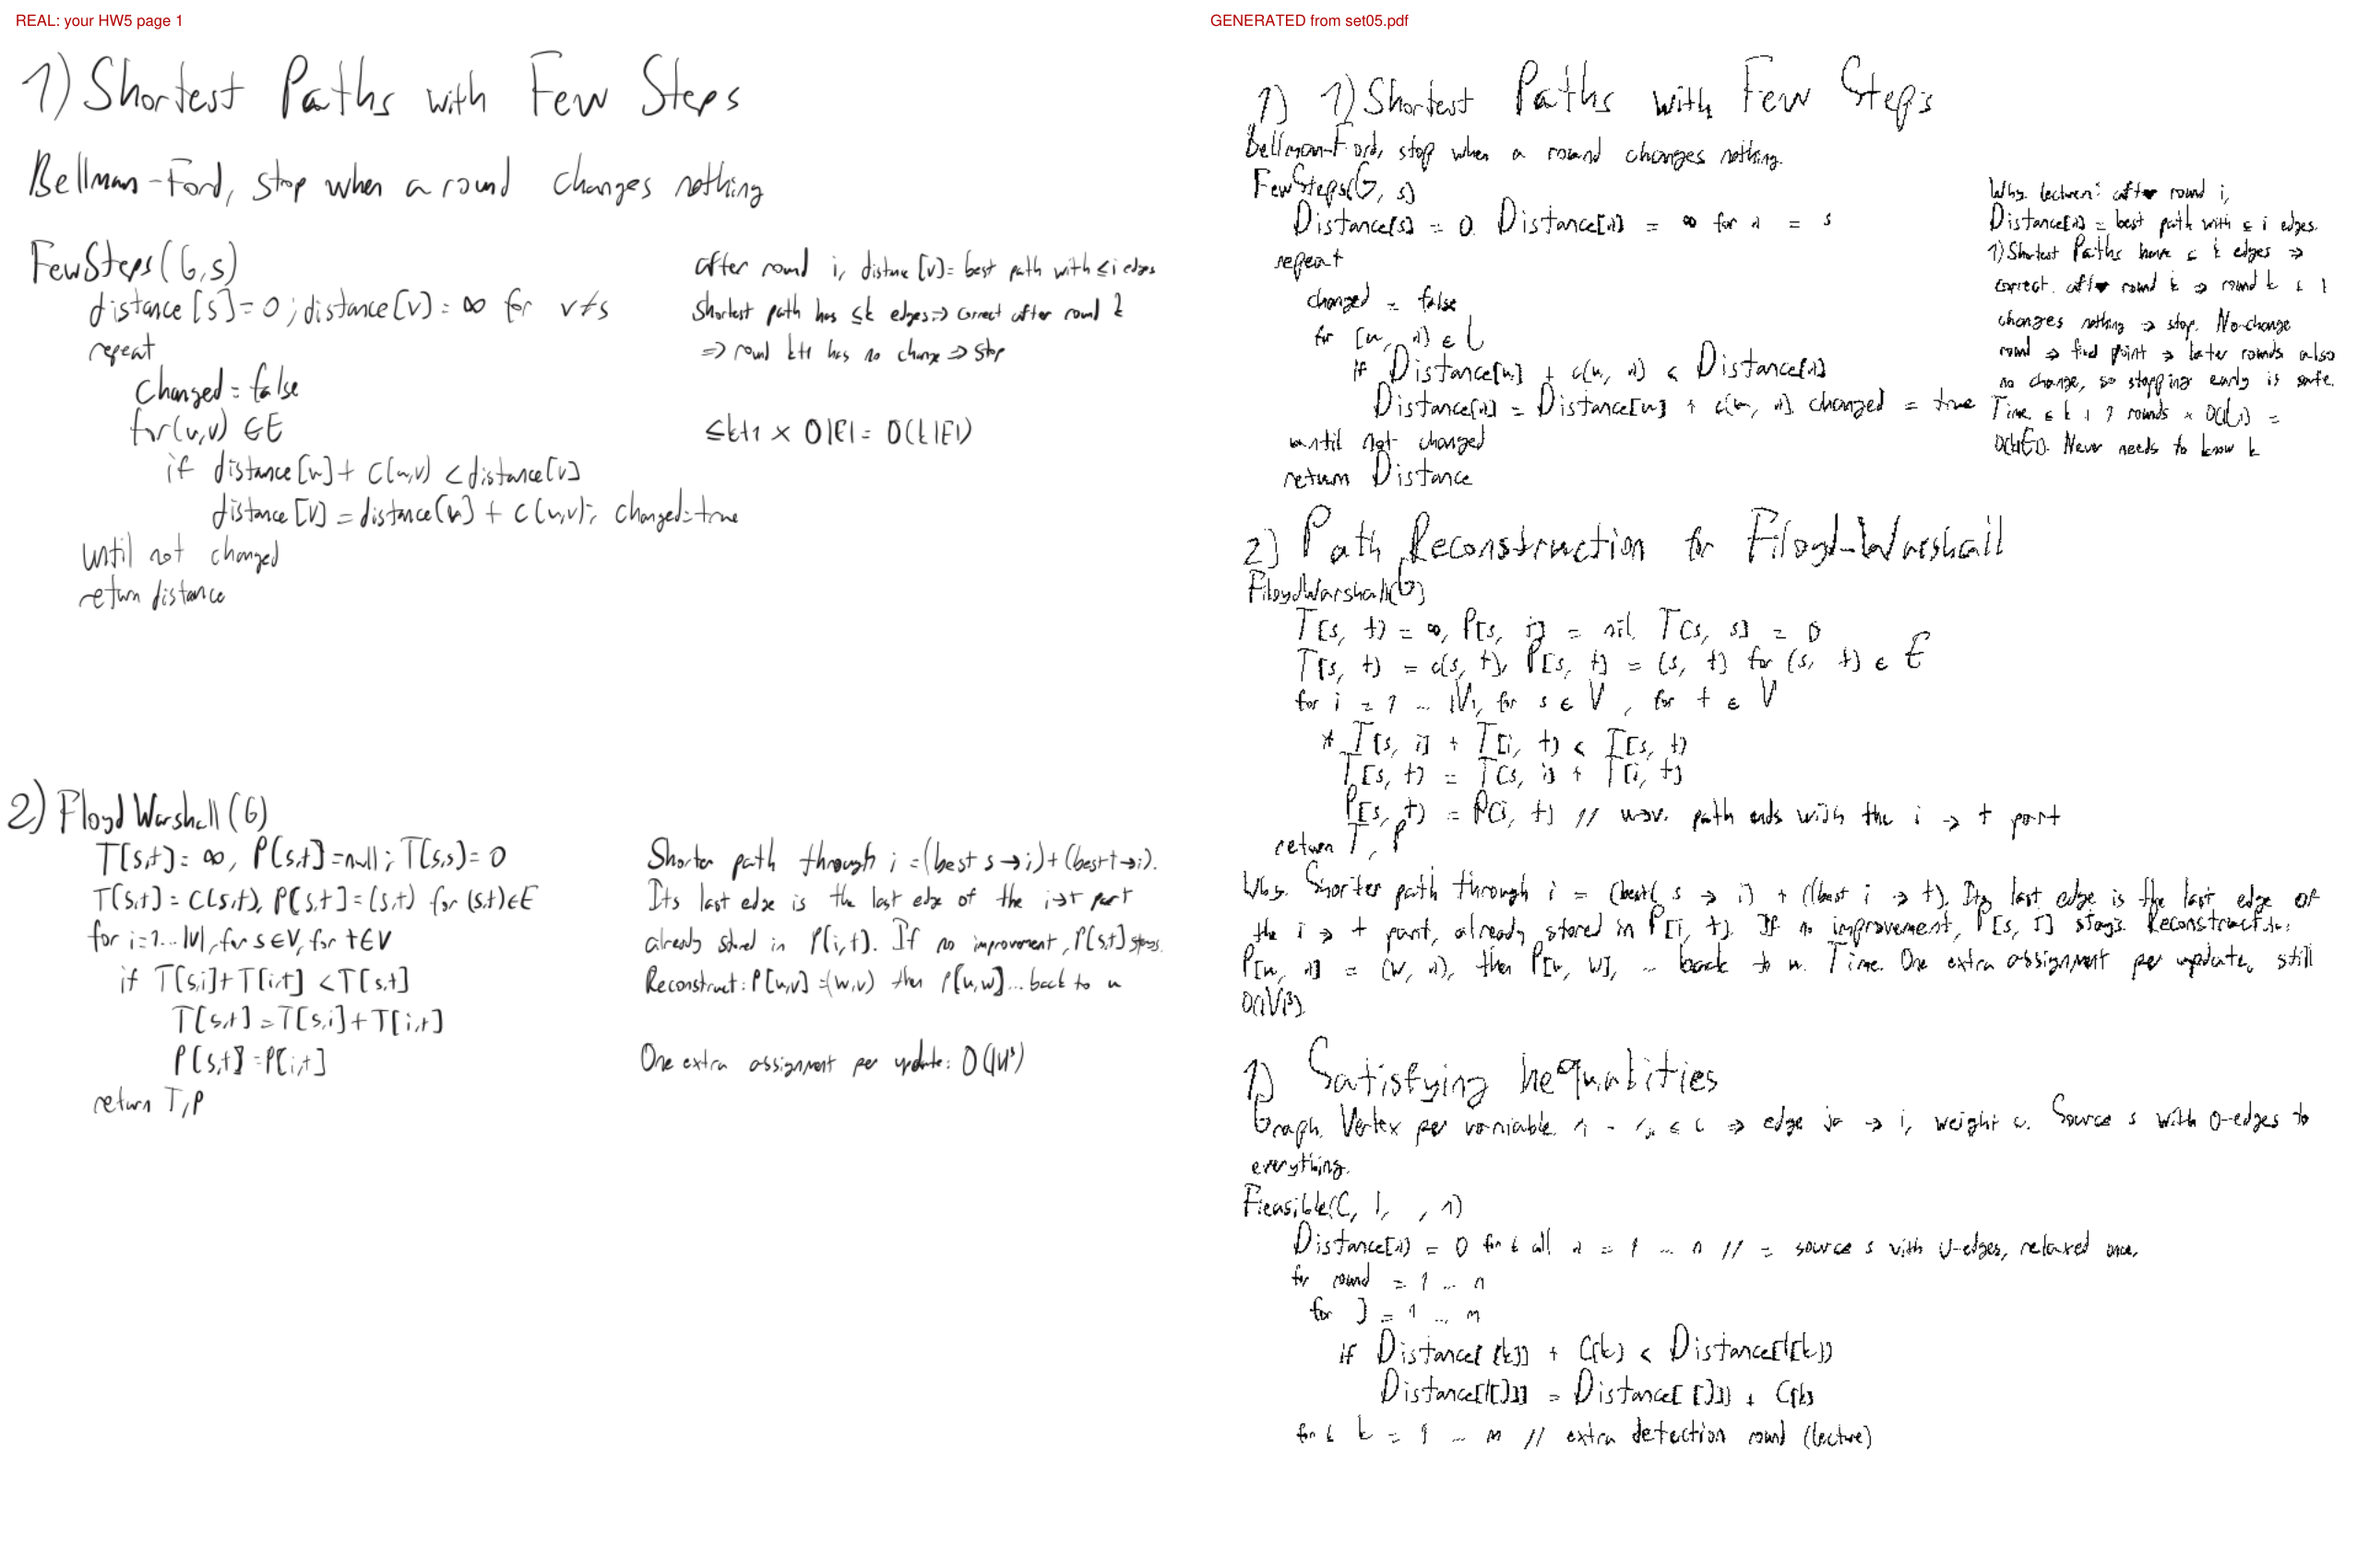
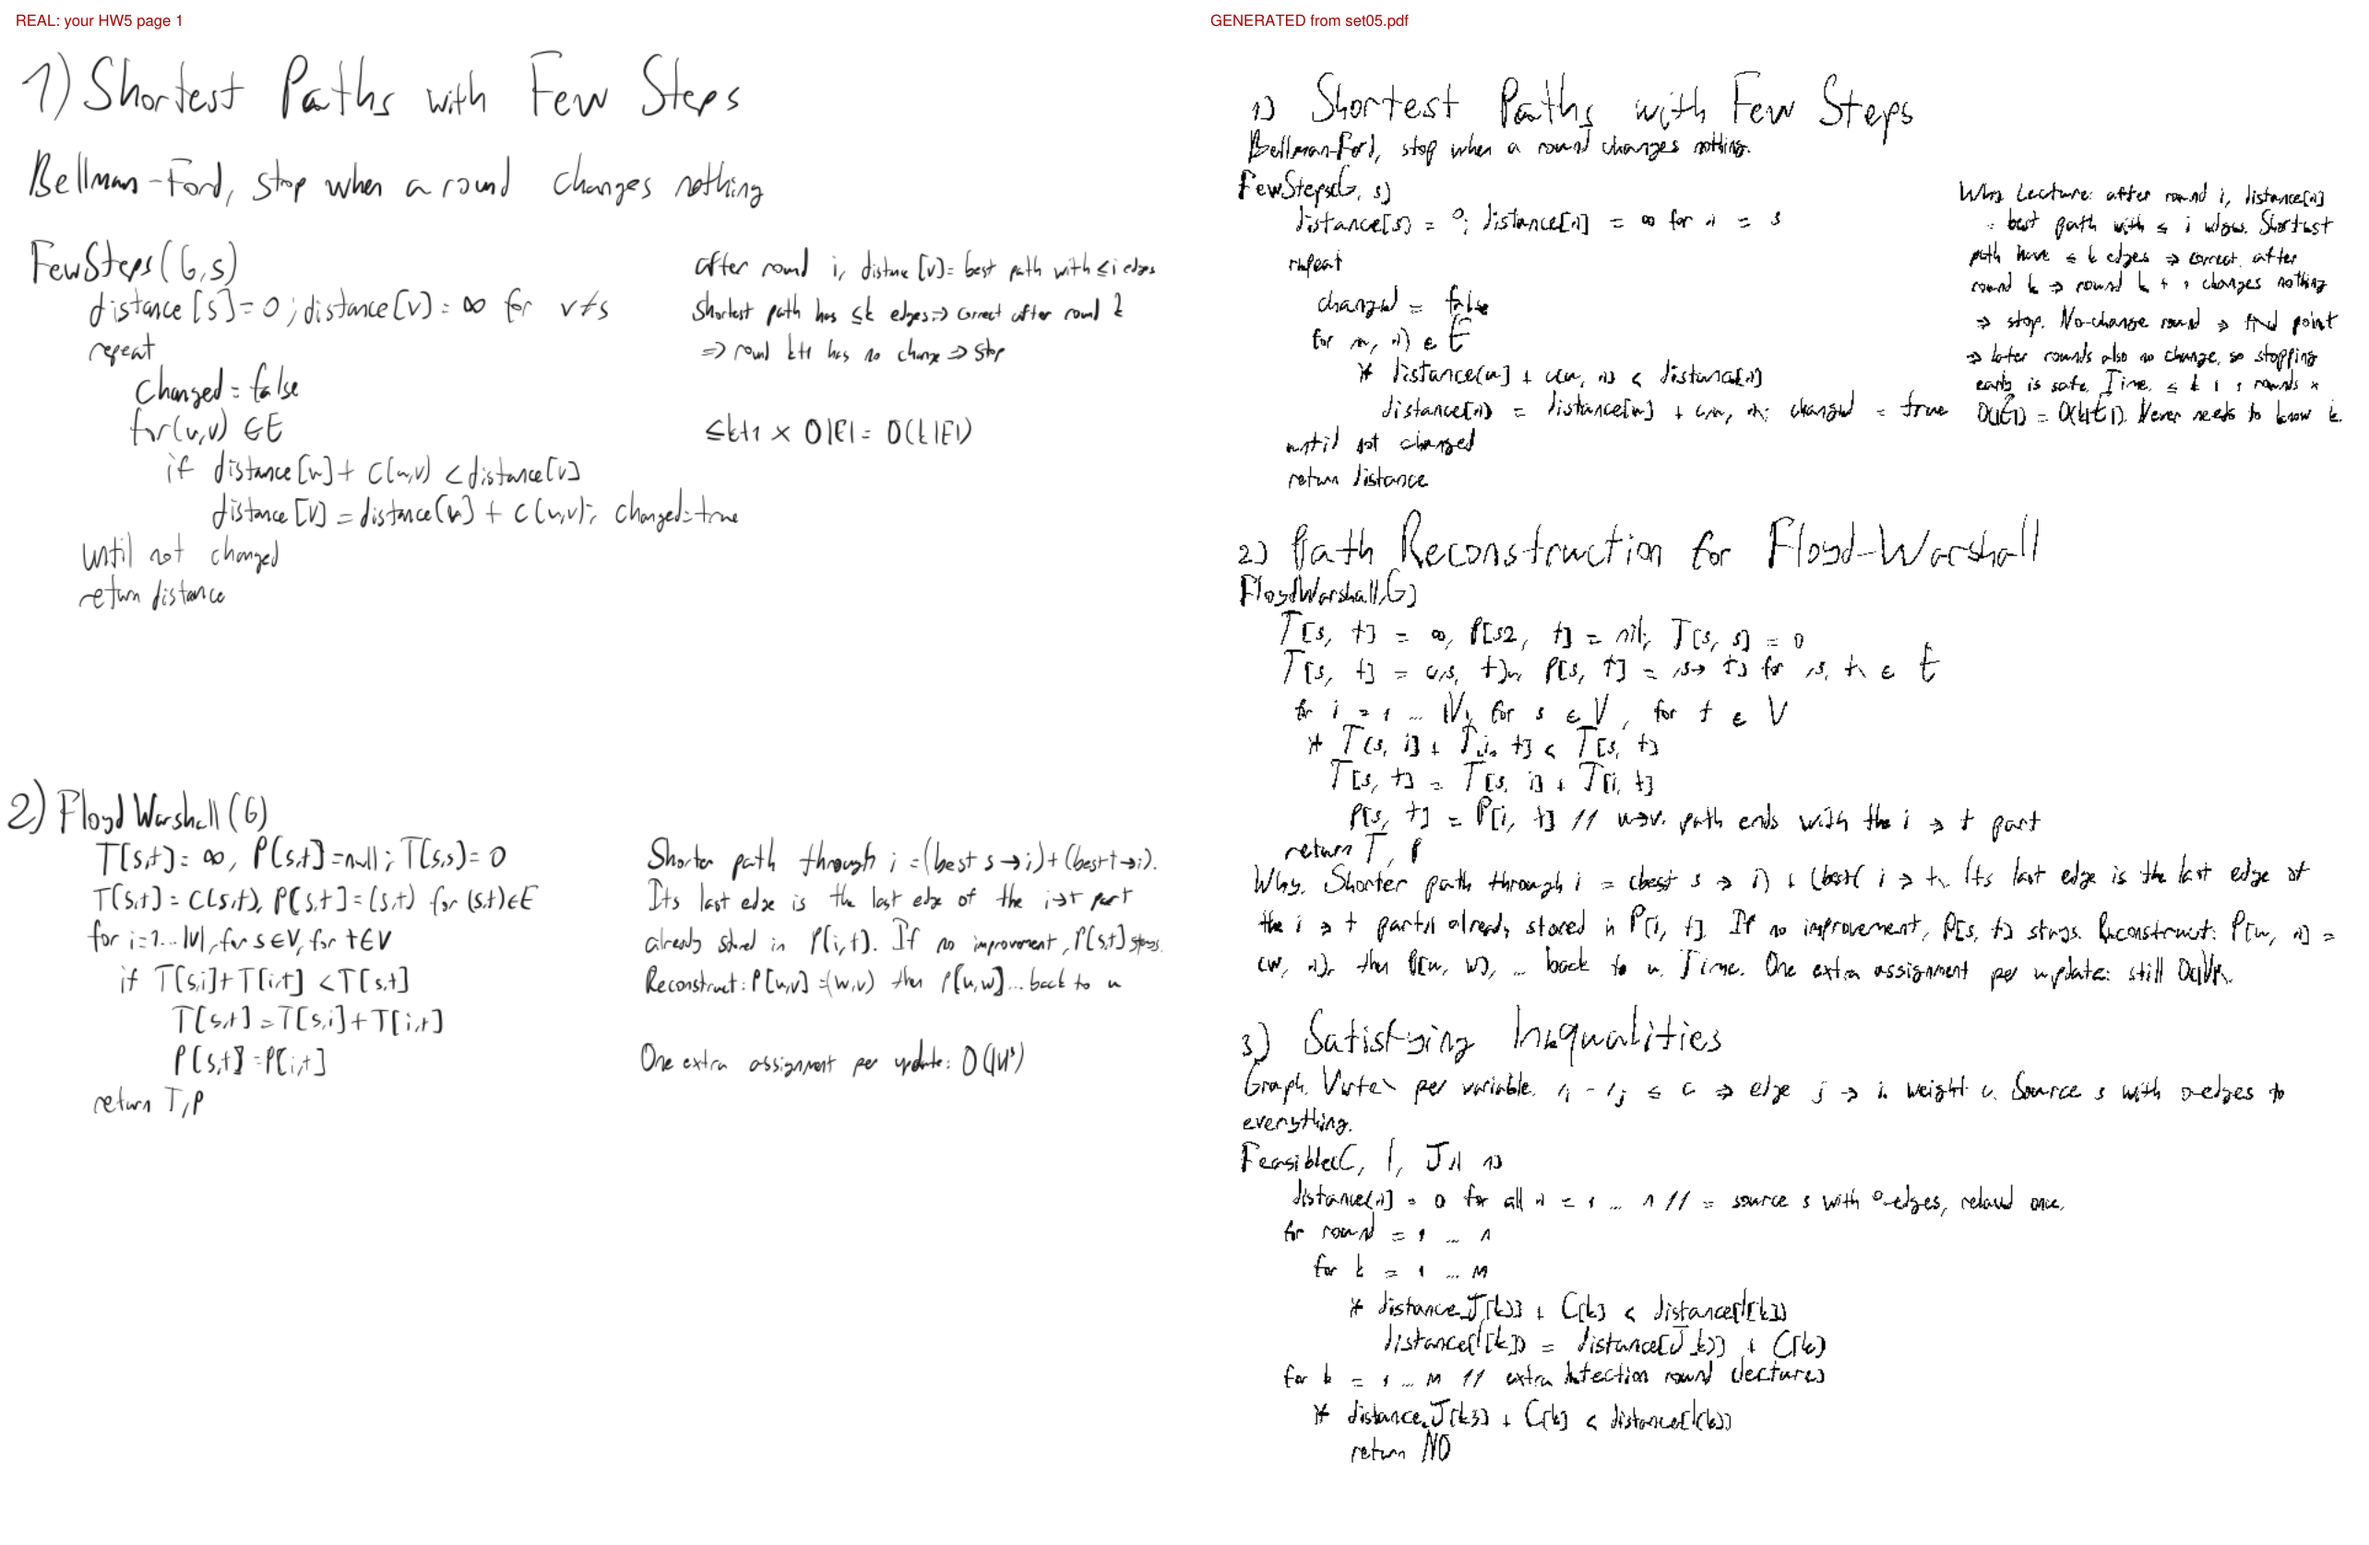
closePath=False on stroke polylines (removes end-to-start chords); report on stroke-quality root causes

diff --git a/inkclone/page.py b/inkclone/page.py
@@ -284,7 +284,7 @@ def write_vector_page(page, strokes, color=(0.12, 0.11, 0.11)):
         # one width per stroke (the pen's pressure variation within a stroke is ~10% and the
         # round-join scalloping from per-run widths was far more visible than that variation)
         shape.draw_polyline([pymupdf.Point(float(x), float(y)) for x, y in P])
-        shape.finish(width=float(np.median(w)), color=color, lineCap=1, lineJoin=1)
+        shape.finish(width=float(np.median(w)), color=color, lineCap=1, lineJoin=1, closePath=False)
     shape.commit()
 
 

diff --git a/reports/2026-10-06-feasibility.md b/reports/2026-10-06-feasibility.md
@@ -137,3 +137,10 @@ Open question: target documents are math or prose? Math needs its own layout + s
 - Writer's direction: fewer rules, go through every glyph and make sure each is itself. Done over four real-instance grids (lower/upper/digits/symbols): 115 blocklist entries total (keys survive rebuilds). Symbol instances now have unique keys (sheet token + occurrence).
 - Mechanical corrections folded in: lowercase stroke count exact, capitals mode..mode+1; fallbacks (hyphen from '=', slash from '1', ')' from '(') count REAL instances only, so variants can no longer switch them off ("Noochange" cause); j rebuilt with a parametric hook (the g-tail version was flat).
 - Notes block of set05 section 1 now spells every word correctly with varying repeats.
+
+## Stroke quality root causes (2026-10-08 midday)
+Writer reported shaky lines, random dots, scalloped strokes ("es" of Inequalities). Three separate causes, all in reconstruction/export, none in the letters:
+1. Per-piece centerline paired outline points by index; for long ribbon pieces this ran corner-to-corner with a hairpin. Fixed: cap-split + equal-fraction pairing (`extract.loop_centerline`). Pieces oriented by neighbouring centroids, overlaps trimmed, arc-length resampled and smoothed within one pen width. Width from exact ribbon geometry: pen is 0.63-0.72pt, not 0.49.
+2. Vector export built filled offset outlines, which self-intersect when samples are denser than the pen width (spikes, holes). Fixed: stroked polylines, round caps/joins, one width per stroke.
+3. PyMuPDF `finish()` defaults to closePath=True: every stroke got a chord from end back to start (short strokes: "random dots"; long strokes: filled blobs). Fixed with closePath=False. This also made the day's "after" renders misleading, together with a lost `__main__` block that left `cli render` silently writing nothing for ~4 hours.
+Verified on the same "es" at 900 dpi and on the section 1 header next to the real HW5 header.
